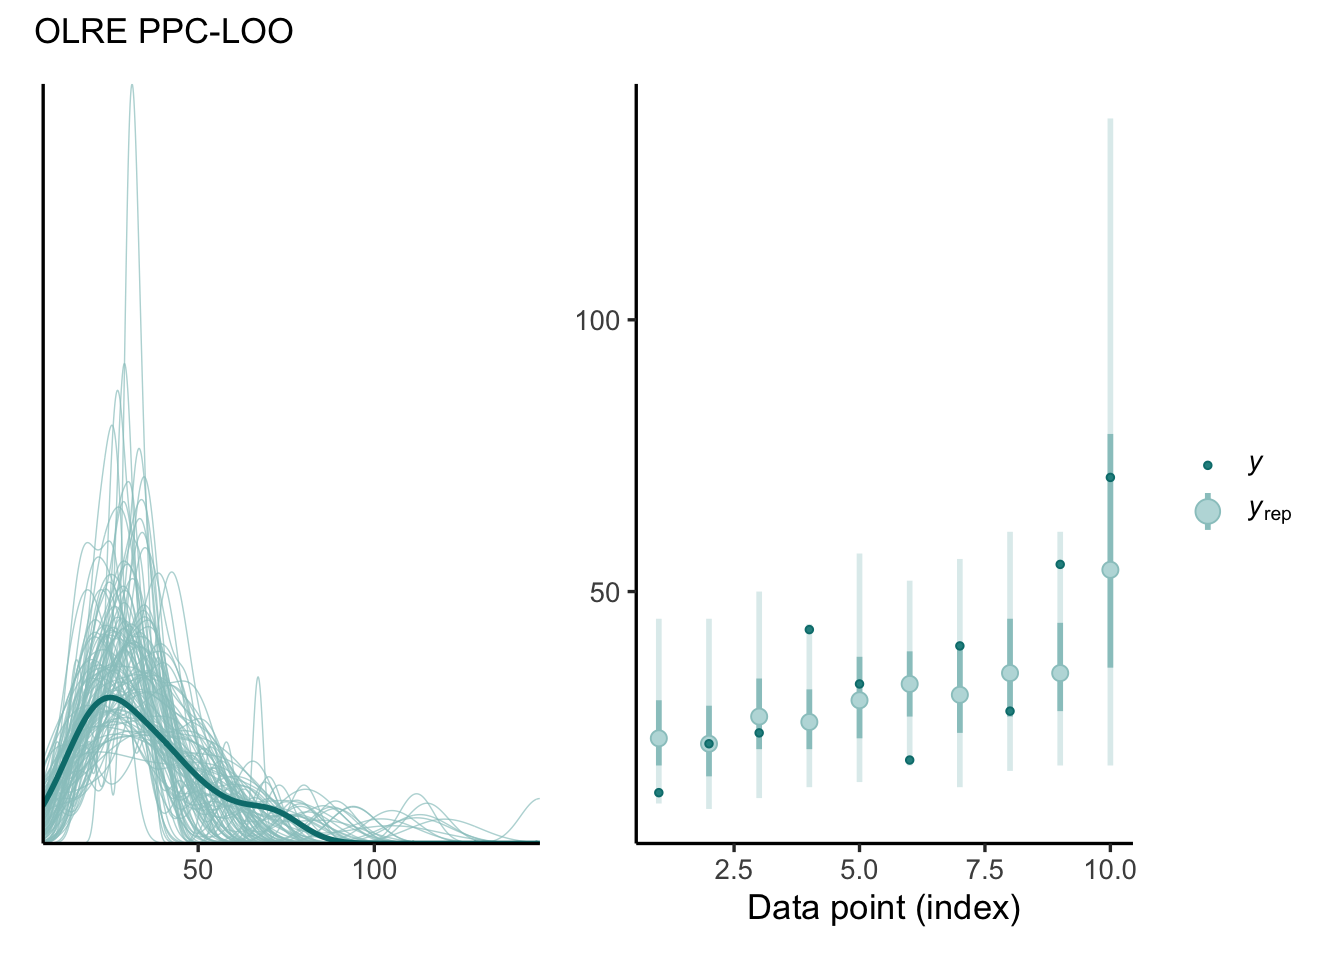
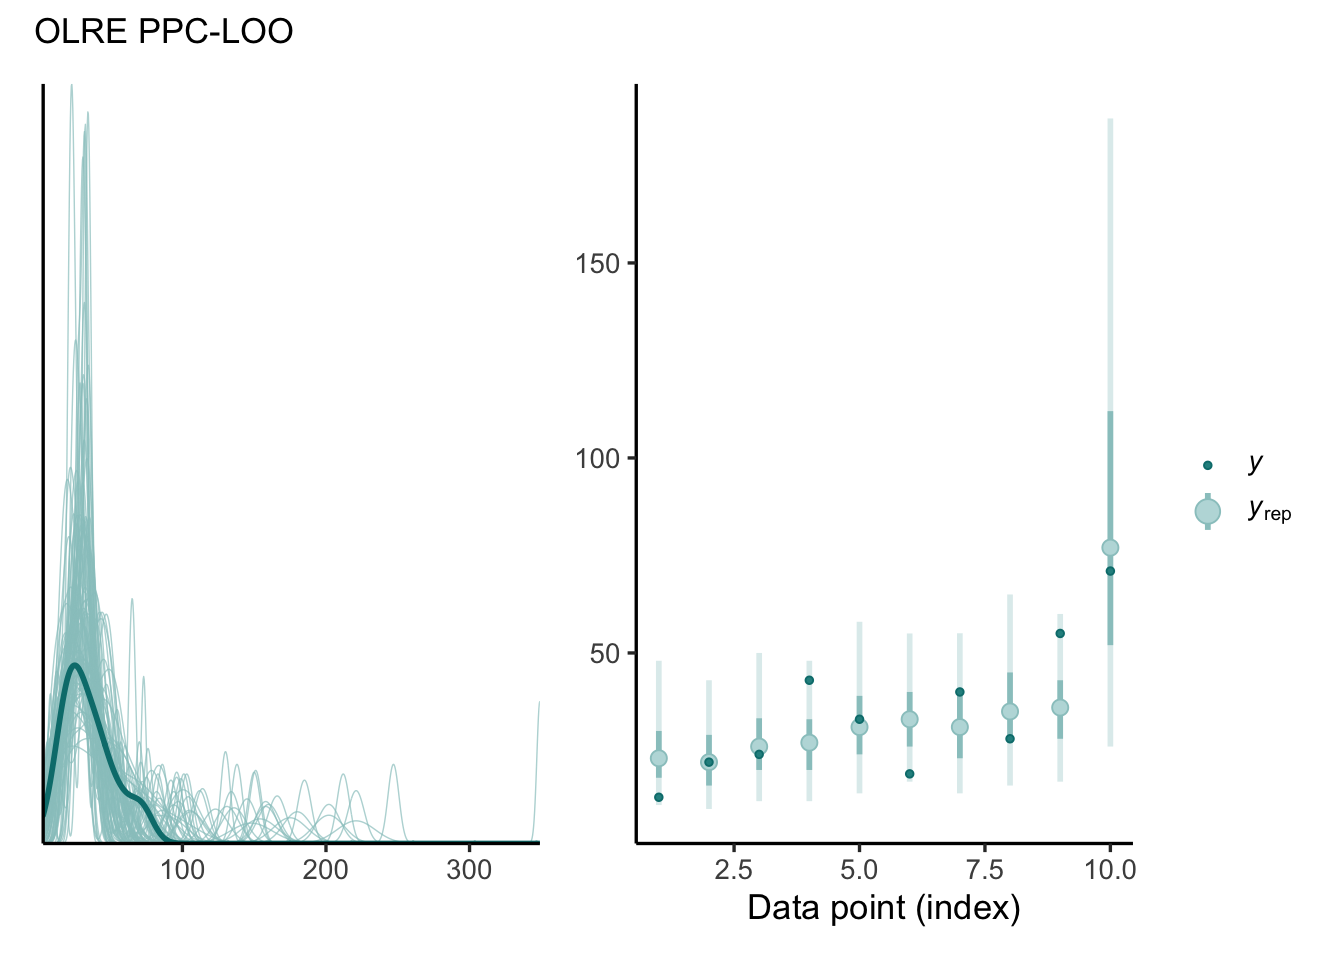
Built site for gh-pages

diff --git a/posts/OLRE/index.html b/posts/OLRE/index.html
@@ -7,7 +7,7 @@
 <meta name="viewport" content="width=device-width, initial-scale=1.0, user-scalable=yes">
 
 <meta name="author" content="Erik J. Ringen">
-<meta name="dcterms.date" content="2024-11-10">
+<meta name="dcterms.date" content="2024-11-16">
 
 <title>The right way to do predictive checks with observation-level random effects – Erik J. Ringen, PhD</title>
 <style>
@@ -227,7 +227,7 @@ window.Quarto = {
       <div>
       <div class="quarto-title-meta-heading">Published</div>
       <div class="quarto-title-meta-contents">
-        <p class="date">November 10, 2024</p>
+        <p class="date">November 16, 2024</p>
       </div>
     </div>
     
@@ -266,8 +266,8 @@ window.Quarto = {
 <h1>The wrong way</h1>
 <p>In Bayesian workflow, we often perform <a href="https://mc-stan.org/docs/stan-users-guide/posterior-predictive-checks.html">posterior predictive checks</a>, where draws from the posterior distribution are used to generate many synthetic replications of our dataset, denoted <span class="math inline">\(y_{\text{rep}}\)</span>, which are then compared to the observed values. Systematic discrepancies between the distribution of <span class="math inline">\(y_\text{rep}\)</span> and the actual data indicate misspecification, and can suggest ways to improve our models.</p>
 <p>To illustrate this idea, we’ll use the Oceanic toolkit complexity dataset from Michelle Kline and Robert Boyd <span class="citation" data-cites="kline2010population">(<a href="#ref-kline2010population" role="doc-biblioref">Kline and Boyd 2010</a>)</span>. The response variable is the count of unique tools in a given Oceanic society (<code>total_tools</code>), which is predicted by the natural logarithm of population size (<code>population</code>). First we will fit this basic model, using priors from <span class="citation" data-cites="mcelreath2020god">(<a href="#ref-mcelreath2020god" role="doc-biblioref">McElreath 2020</a>)</span>. For each society <span class="math inline">\(i\)</span>:</p>
-<p><span class="math display">\[ \text{total\_tools}_i \sim \text{Poisson}(\lambda_i)\]</span> <span class="math display">\[ \text{log}(\lambda_i) = b_0 + b_{\text{pop}}\text{log}(\text{population}_{z_i})\]</span> <span class="math display">\[ b_0 \sim \mathcal{N}(3, 0.5)\]</span> <span class="math display">\[ b_{\text{pop}} \sim \mathcal{N}(0, 0.2)\]</span></p>
-<p>Then, we will perform posterior predictive checks using some off-the-shelf convenience functions.</p>
+<p><span class="math display">\[ \text{total\_tools}_i \sim \text{Poisson}(\lambda_i)\]</span> <span class="math display">\[ \text{log}(\lambda_i) = b_0 + b_{\text{pop}}\text{log}(\text{population}_{i})_z\]</span> <span class="math display">\[ b_0 \sim \mathcal{N}(3, 0.5)\]</span> <span class="math display">\[ b_{\text{pop}} \sim \mathcal{N}(0, 0.2)\]</span></p>
+<p>Where log(population) has been standardized to have zero mean and unit variance. Then, we will perform posterior predictive checks using some off-the-shelf convenience functions.</p>
 <div class="tabset-margin-container"></div><div class="panel-tabset">
 <ul class="nav nav-tabs" role="tablist"><li class="nav-item" role="presentation"><a class="nav-link active" id="tabset-1-1-tab" data-bs-toggle="tab" data-bs-target="#tabset-1-1" role="tab" aria-controls="tabset-1-1" aria-selected="true">brms</a></li><li class="nav-item" role="presentation"><a class="nav-link" id="tabset-1-2-tab" data-bs-toggle="tab" data-bs-target="#tabset-1-2" role="tab" aria-controls="tabset-1-2" aria-selected="false">PyMC</a></li></ul>
 <div class="tab-content">
@@ -535,7 +535,7 @@ window.Quarto = {
 </div>
 </div>
 </div>
-<p>Looks good, right? Sadly, this is a little too good to be true. We have misled ourselves. To see why, let’s examine the <span class="math inline">\(\nu_{\text{obs}}\)</span> parameters in relation to the observed data:</p>
+<p>Looks good, right? Sadly, this is a little too good to be true. We have misled ourselves. To see why, let’s examine the posterior distribution of the OLREs in relation to the observed data:</p>
 <div class="tabset-margin-container"></div><div class="panel-tabset">
 <ul class="nav nav-tabs" role="tablist"><li class="nav-item" role="presentation"><a class="nav-link active" id="tabset-3-1-tab" data-bs-toggle="tab" data-bs-target="#tabset-3-1" role="tab" aria-controls="tabset-3-1" aria-selected="true">brms</a></li><li class="nav-item" role="presentation"><a class="nav-link" id="tabset-3-2-tab" data-bs-toggle="tab" data-bs-target="#tabset-3-2" role="tab" aria-controls="tabset-3-2" aria-selected="false">PyMC</a></li></ul>
 <div class="tab-content">
@@ -669,12 +669,18 @@ window.Quarto = {
 <div class="sourceCode cell-code" id="cb12"><pre class="sourceCode r code-with-copy"><code class="sourceCode r"><span id="cb12-1"><a href="#cb12-1" aria-hidden="true" tabindex="-1"></a>yrep_loo <span class="ot">&lt;-</span> <span class="fu">matrix</span>(<span class="cn">NA</span>, <span class="at">nrow =</span> <span class="fu">ndraws</span>(m_poisson_OLRE), <span class="at">ncol =</span> <span class="fu">nrow</span>(Kline))</span>
 <span id="cb12-2"><a href="#cb12-2" aria-hidden="true" tabindex="-1"></a></span>
 <span id="cb12-3"><a href="#cb12-3" aria-hidden="true" tabindex="-1"></a><span class="cf">for</span> (i <span class="cf">in</span> <span class="dv">1</span><span class="sc">:</span><span class="fu">nrow</span>(Kline)) {</span>
-<span id="cb12-4"><a href="#cb12-4" aria-hidden="true" tabindex="-1"></a>    model_loo <span class="ot">&lt;-</span> <span class="fu">update</span>(m_poisson_OLRE, <span class="at">newdata =</span> Kline[<span class="sc">-</span>i,], <span class="at">seed =</span> <span class="dv">123</span>)</span>
-<span id="cb12-5"><a href="#cb12-5" aria-hidden="true" tabindex="-1"></a>    yrep_loo[,i] <span class="ot">&lt;-</span> <span class="fu">posterior_predict</span>(model_loo, <span class="at">newdata =</span> Kline[i,], <span class="at">allow_new_levels =</span> <span class="cn">TRUE</span>, <span class="at">sample_new_levels =</span> <span class="st">"gaussian"</span>)</span>
-<span id="cb12-6"><a href="#cb12-6" aria-hidden="true" tabindex="-1"></a>}</span>
-<span id="cb12-7"><a href="#cb12-7" aria-hidden="true" tabindex="-1"></a></span>
-<span id="cb12-8"><a href="#cb12-8" aria-hidden="true" tabindex="-1"></a>bayesplot<span class="sc">::</span><span class="fu">ppc_dens_overlay</span>(Kline<span class="sc">$</span>total_tools, yrep_loo[<span class="dv">1</span><span class="sc">:</span><span class="dv">100</span>,]) <span class="sc">+</span> <span class="fu">theme</span>(<span class="at">legend.position =</span> <span class="st">"none"</span>) <span class="sc">+</span> bayesplot<span class="sc">::</span><span class="fu">ppc_intervals</span>(Kline<span class="sc">$</span>total_tools, yrep_loo) <span class="sc">+</span></span>
-<span id="cb12-9"><a href="#cb12-9" aria-hidden="true" tabindex="-1"></a>    <span class="fu">plot_annotation</span>(<span class="at">subtitle =</span> <span class="st">"OLRE PPC-LOO"</span>) </span></code><button title="Copy to Clipboard" class="code-copy-button"><i class="bi"></i></button></pre></div>
+<span id="cb12-4"><a href="#cb12-4" aria-hidden="true" tabindex="-1"></a>    Kline_train <span class="ot">&lt;-</span> Kline[<span class="sc">-</span>i,]</span>
+<span id="cb12-5"><a href="#cb12-5" aria-hidden="true" tabindex="-1"></a>    Kline_test <span class="ot">&lt;-</span> Kline[i,]</span>
+<span id="cb12-6"><a href="#cb12-6" aria-hidden="true" tabindex="-1"></a>    <span class="co"># recompute z-scores to avoid leakage</span></span>
+<span id="cb12-7"><a href="#cb12-7" aria-hidden="true" tabindex="-1"></a>    mean_log_pop <span class="ot">&lt;-</span> <span class="fu">mean</span>(<span class="fu">log</span>(Kline_train<span class="sc">$</span>population))</span>
+<span id="cb12-8"><a href="#cb12-8" aria-hidden="true" tabindex="-1"></a>    sd_log_pop <span class="ot">&lt;-</span> <span class="fu">sd</span>(<span class="fu">log</span>(Kline_train<span class="sc">$</span>population))</span>
+<span id="cb12-9"><a href="#cb12-9" aria-hidden="true" tabindex="-1"></a></span>
+<span id="cb12-10"><a href="#cb12-10" aria-hidden="true" tabindex="-1"></a>    model_loo <span class="ot">&lt;-</span> <span class="fu">update</span>(m_poisson_OLRE, <span class="at">newdata =</span> Kline_train <span class="sc">|&gt;</span> <span class="fu">mutate</span>(<span class="at">log_pop_z =</span> (<span class="fu">log</span>(population) <span class="sc">-</span> mean_log_pop) <span class="sc">/</span> sd_log_pop), <span class="at">seed =</span> <span class="dv">123</span>)</span>
+<span id="cb12-11"><a href="#cb12-11" aria-hidden="true" tabindex="-1"></a>    yrep_loo[,i] <span class="ot">&lt;-</span> <span class="fu">posterior_predict</span>(model_loo, <span class="at">newdata =</span> Kline_test <span class="sc">|&gt;</span> <span class="fu">mutate</span>(<span class="at">log_pop_z =</span> (<span class="fu">log</span>(population) <span class="sc">-</span> mean_log_pop) <span class="sc">/</span> sd_log_pop), <span class="at">allow_new_levels =</span> <span class="cn">TRUE</span>, <span class="at">sample_new_levels =</span> <span class="st">"gaussian"</span>)</span>
+<span id="cb12-12"><a href="#cb12-12" aria-hidden="true" tabindex="-1"></a>}</span>
+<span id="cb12-13"><a href="#cb12-13" aria-hidden="true" tabindex="-1"></a></span>
+<span id="cb12-14"><a href="#cb12-14" aria-hidden="true" tabindex="-1"></a>bayesplot<span class="sc">::</span><span class="fu">ppc_dens_overlay</span>(Kline<span class="sc">$</span>total_tools, yrep_loo[<span class="dv">1</span><span class="sc">:</span><span class="dv">100</span>,]) <span class="sc">+</span> <span class="fu">theme</span>(<span class="at">legend.position =</span> <span class="st">"none"</span>) <span class="sc">+</span> bayesplot<span class="sc">::</span><span class="fu">ppc_intervals</span>(Kline<span class="sc">$</span>total_tools, yrep_loo) <span class="sc">+</span></span>
+<span id="cb12-15"><a href="#cb12-15" aria-hidden="true" tabindex="-1"></a>    <span class="fu">plot_annotation</span>(<span class="at">subtitle =</span> <span class="st">"OLRE PPC-LOO"</span>) </span></code><button title="Copy to Clipboard" class="code-copy-button"><i class="bi"></i></button></pre></div>
 </details>
 <div class="cell-output-display">
 <div class="quarto-figure quarto-figure-center">
@@ -694,32 +700,36 @@ window.Quarto = {
 <span id="cb13-2"><a href="#cb13-2" aria-hidden="true" tabindex="-1"></a>    obs_idx <span class="op">=</span> np.arange(<span class="bu">len</span>(train))</span>
 <span id="cb13-3"><a href="#cb13-3" aria-hidden="true" tabindex="-1"></a>    coords <span class="op">=</span> {<span class="st">"obs"</span>: obs_idx}</span>
 <span id="cb13-4"><a href="#cb13-4" aria-hidden="true" tabindex="-1"></a></span>
-<span id="cb13-5"><a href="#cb13-5" aria-hidden="true" tabindex="-1"></a>    <span class="cf">with</span> pm.Model(coords <span class="op">=</span> coords) <span class="im">as</span> model:</span>
-<span id="cb13-6"><a href="#cb13-6" aria-hidden="true" tabindex="-1"></a>        b0 <span class="op">=</span> pm.Normal(<span class="st">"Intercept"</span>, mu<span class="op">=</span><span class="dv">3</span>, sigma<span class="op">=</span><span class="fl">0.5</span>)</span>
-<span id="cb13-7"><a href="#cb13-7" aria-hidden="true" tabindex="-1"></a>        b_pop <span class="op">=</span> pm.Normal(<span class="st">"slope"</span>, mu<span class="op">=</span><span class="dv">0</span>, sigma<span class="op">=</span><span class="fl">0.2</span>)</span>
-<span id="cb13-8"><a href="#cb13-8" aria-hidden="true" tabindex="-1"></a>        nu <span class="op">=</span> pm.Normal(<span class="st">"nu"</span>, mu <span class="op">=</span> <span class="dv">0</span>, sigma <span class="op">=</span> <span class="dv">1</span>, dims <span class="op">=</span> <span class="st">"obs"</span>)</span>
-<span id="cb13-9"><a href="#cb13-9" aria-hidden="true" tabindex="-1"></a>        sigma <span class="op">=</span> pm.Exponential(<span class="st">"sigma"</span>, lam <span class="op">=</span> <span class="dv">2</span>)</span>
-<span id="cb13-10"><a href="#cb13-10" aria-hidden="true" tabindex="-1"></a>        <span class="co"># linear model</span></span>
-<span id="cb13-11"><a href="#cb13-11" aria-hidden="true" tabindex="-1"></a>        log_lam <span class="op">=</span> b0 <span class="op">+</span> nu[obs_idx]<span class="op">*</span>sigma <span class="op">+</span> b_pop <span class="op">*</span> train[<span class="st">'log_pop_z'</span>] </span>
-<span id="cb13-12"><a href="#cb13-12" aria-hidden="true" tabindex="-1"></a>        <span class="co">## Poisson likelihood</span></span>
-<span id="cb13-13"><a href="#cb13-13" aria-hidden="true" tabindex="-1"></a>        y <span class="op">=</span> pm.Poisson(<span class="st">"y"</span>, mu<span class="op">=</span>pm.math.exp(log_lam), observed<span class="op">=</span>train[<span class="st">'total_tools'</span>])</span>
-<span id="cb13-14"><a href="#cb13-14" aria-hidden="true" tabindex="-1"></a></span>
-<span id="cb13-15"><a href="#cb13-15" aria-hidden="true" tabindex="-1"></a>        nu_rep <span class="op">=</span> pm.Normal(<span class="st">"nu_rep"</span>, mu <span class="op">=</span> <span class="dv">0</span>, sigma <span class="op">=</span> sigma)</span>
-<span id="cb13-16"><a href="#cb13-16" aria-hidden="true" tabindex="-1"></a>        yrep <span class="op">=</span> pm.Poisson(<span class="st">"yrep"</span>, pm.math.exp(b0 <span class="op">+</span> nu_rep <span class="op">+</span> b_pop <span class="op">*</span> test[<span class="st">'log_pop_z'</span>]))</span>
-<span id="cb13-17"><a href="#cb13-17" aria-hidden="true" tabindex="-1"></a>    </span>
-<span id="cb13-18"><a href="#cb13-18" aria-hidden="true" tabindex="-1"></a>        idata_loo <span class="op">=</span> pm.sample(<span class="dv">1000</span>, chains <span class="op">=</span> <span class="dv">1</span>, target_accept <span class="op">=</span> <span class="fl">0.99</span>, random_seed<span class="op">=</span><span class="dv">2</span>)</span>
-<span id="cb13-19"><a href="#cb13-19" aria-hidden="true" tabindex="-1"></a>    </span>
-<span id="cb13-20"><a href="#cb13-20" aria-hidden="true" tabindex="-1"></a>    pred <span class="op">=</span> pm.sample_posterior_predictive(idata_loo, model, predictions<span class="op">=</span><span class="va">True</span>, extend_inferencedata<span class="op">=</span><span class="va">False</span>, var_names <span class="op">=</span> [<span class="st">'yrep'</span>], random_seed<span class="op">=</span><span class="dv">2</span>)</span>
-<span id="cb13-21"><a href="#cb13-21" aria-hidden="true" tabindex="-1"></a></span>
-<span id="cb13-22"><a href="#cb13-22" aria-hidden="true" tabindex="-1"></a>    <span class="cf">return</span> pred.predictions[<span class="st">'yrep'</span>]</span>
-<span id="cb13-23"><a href="#cb13-23" aria-hidden="true" tabindex="-1"></a></span>
-<span id="cb13-24"><a href="#cb13-24" aria-hidden="true" tabindex="-1"></a>test_preds <span class="op">=</span> []</span>
+<span id="cb13-5"><a href="#cb13-5" aria-hidden="true" tabindex="-1"></a>    <span class="co"># recompute z-scores to avoid leakage</span></span>
+<span id="cb13-6"><a href="#cb13-6" aria-hidden="true" tabindex="-1"></a>    mean_log_pop <span class="op">=</span> np.mean(np.log(train[<span class="st">'population'</span>]))</span>
+<span id="cb13-7"><a href="#cb13-7" aria-hidden="true" tabindex="-1"></a>    sd_log_pop <span class="op">=</span> np.std(np.log(train[<span class="st">'population'</span>]))</span>
+<span id="cb13-8"><a href="#cb13-8" aria-hidden="true" tabindex="-1"></a></span>
+<span id="cb13-9"><a href="#cb13-9" aria-hidden="true" tabindex="-1"></a>    <span class="cf">with</span> pm.Model(coords <span class="op">=</span> coords) <span class="im">as</span> model:</span>
+<span id="cb13-10"><a href="#cb13-10" aria-hidden="true" tabindex="-1"></a>        b0 <span class="op">=</span> pm.Normal(<span class="st">"Intercept"</span>, mu<span class="op">=</span><span class="dv">3</span>, sigma<span class="op">=</span><span class="fl">0.5</span>)</span>
+<span id="cb13-11"><a href="#cb13-11" aria-hidden="true" tabindex="-1"></a>        b_pop <span class="op">=</span> pm.Normal(<span class="st">"slope"</span>, mu<span class="op">=</span><span class="dv">0</span>, sigma<span class="op">=</span><span class="fl">0.2</span>)</span>
+<span id="cb13-12"><a href="#cb13-12" aria-hidden="true" tabindex="-1"></a>        nu <span class="op">=</span> pm.Normal(<span class="st">"nu"</span>, mu <span class="op">=</span> <span class="dv">0</span>, sigma <span class="op">=</span> <span class="dv">1</span>, dims <span class="op">=</span> <span class="st">"obs"</span>)</span>
+<span id="cb13-13"><a href="#cb13-13" aria-hidden="true" tabindex="-1"></a>        sigma <span class="op">=</span> pm.Exponential(<span class="st">"sigma"</span>, lam <span class="op">=</span> <span class="dv">2</span>)</span>
+<span id="cb13-14"><a href="#cb13-14" aria-hidden="true" tabindex="-1"></a>        <span class="co"># linear model</span></span>
+<span id="cb13-15"><a href="#cb13-15" aria-hidden="true" tabindex="-1"></a>        log_lam <span class="op">=</span> b0 <span class="op">+</span> nu[obs_idx]<span class="op">*</span>sigma <span class="op">+</span> b_pop <span class="op">*</span> train[<span class="st">'log_pop_z'</span>] </span>
+<span id="cb13-16"><a href="#cb13-16" aria-hidden="true" tabindex="-1"></a>        <span class="co">## Poisson likelihood</span></span>
+<span id="cb13-17"><a href="#cb13-17" aria-hidden="true" tabindex="-1"></a>        y <span class="op">=</span> pm.Poisson(<span class="st">"y"</span>, mu<span class="op">=</span>pm.math.exp(log_lam), observed<span class="op">=</span>train[<span class="st">'total_tools'</span>])</span>
+<span id="cb13-18"><a href="#cb13-18" aria-hidden="true" tabindex="-1"></a></span>
+<span id="cb13-19"><a href="#cb13-19" aria-hidden="true" tabindex="-1"></a>        nu_rep <span class="op">=</span> pm.Normal(<span class="st">"nu_rep"</span>, mu <span class="op">=</span> <span class="dv">0</span>, sigma <span class="op">=</span> sigma)</span>
+<span id="cb13-20"><a href="#cb13-20" aria-hidden="true" tabindex="-1"></a>        yrep <span class="op">=</span> pm.Poisson(<span class="st">"yrep"</span>, pm.math.exp(b0 <span class="op">+</span> nu_rep <span class="op">+</span> b_pop <span class="op">*</span> (np.log(test[<span class="st">'population'</span>]) <span class="op">-</span> mean_log_pop)<span class="op">/</span>sd_log_pop))</span>
+<span id="cb13-21"><a href="#cb13-21" aria-hidden="true" tabindex="-1"></a>    </span>
+<span id="cb13-22"><a href="#cb13-22" aria-hidden="true" tabindex="-1"></a>        idata_loo <span class="op">=</span> pm.sample(<span class="dv">1000</span>, chains <span class="op">=</span> <span class="dv">1</span>, target_accept <span class="op">=</span> <span class="fl">0.99</span>, random_seed<span class="op">=</span><span class="dv">99</span>)</span>
+<span id="cb13-23"><a href="#cb13-23" aria-hidden="true" tabindex="-1"></a>    </span>
+<span id="cb13-24"><a href="#cb13-24" aria-hidden="true" tabindex="-1"></a>    pred <span class="op">=</span> pm.sample_posterior_predictive(idata_loo, model, predictions<span class="op">=</span><span class="va">True</span>, extend_inferencedata<span class="op">=</span><span class="va">False</span>, var_names <span class="op">=</span> [<span class="st">'yrep'</span>], random_seed<span class="op">=</span><span class="dv">2</span>)</span>
 <span id="cb13-25"><a href="#cb13-25" aria-hidden="true" tabindex="-1"></a></span>
-<span id="cb13-26"><a href="#cb13-26" aria-hidden="true" tabindex="-1"></a><span class="cf">for</span> i <span class="kw">in</span> <span class="bu">range</span>(<span class="bu">len</span>(Kline)):</span>
-<span id="cb13-27"><a href="#cb13-27" aria-hidden="true" tabindex="-1"></a>    train <span class="op">=</span> Kline.drop(index <span class="op">=</span> Kline.index[i])</span>
-<span id="cb13-28"><a href="#cb13-28" aria-hidden="true" tabindex="-1"></a>    test <span class="op">=</span> Kline.iloc[[i]]</span>
-<span id="cb13-29"><a href="#cb13-29" aria-hidden="true" tabindex="-1"></a>    yrep_loo <span class="op">=</span> model_factory(train, test)</span>
-<span id="cb13-30"><a href="#cb13-30" aria-hidden="true" tabindex="-1"></a>    test_preds.append(yrep_loo)</span></code><button title="Copy to Clipboard" class="code-copy-button"><i class="bi"></i></button></pre></div>
+<span id="cb13-26"><a href="#cb13-26" aria-hidden="true" tabindex="-1"></a>    <span class="cf">return</span> pred.predictions[<span class="st">'yrep'</span>]</span>
+<span id="cb13-27"><a href="#cb13-27" aria-hidden="true" tabindex="-1"></a></span>
+<span id="cb13-28"><a href="#cb13-28" aria-hidden="true" tabindex="-1"></a>test_preds <span class="op">=</span> []</span>
+<span id="cb13-29"><a href="#cb13-29" aria-hidden="true" tabindex="-1"></a></span>
+<span id="cb13-30"><a href="#cb13-30" aria-hidden="true" tabindex="-1"></a><span class="cf">for</span> i <span class="kw">in</span> <span class="bu">range</span>(<span class="bu">len</span>(Kline)):</span>
+<span id="cb13-31"><a href="#cb13-31" aria-hidden="true" tabindex="-1"></a>    train <span class="op">=</span> Kline.drop(index <span class="op">=</span> Kline.index[i])</span>
+<span id="cb13-32"><a href="#cb13-32" aria-hidden="true" tabindex="-1"></a>    test <span class="op">=</span> Kline.iloc[[i]]</span>
+<span id="cb13-33"><a href="#cb13-33" aria-hidden="true" tabindex="-1"></a>    yrep_loo <span class="op">=</span> model_factory(train, test)</span>
+<span id="cb13-34"><a href="#cb13-34" aria-hidden="true" tabindex="-1"></a>    test_preds.append(yrep_loo)</span></code><button title="Copy to Clipboard" class="code-copy-button"><i class="bi"></i></button></pre></div>
 </details>
 <details class="code-fold">
 <summary>Code</summary>
@@ -743,7 +753,7 @@ window.Quarto = {
 </div>
 </div>
 </div>
-<p>This predictive check is even less optimistic, but it still looks better than the first Poisson model we fit, suggesting that the OLRE is helpful. For large datasets, it becomes infeasible to refit the model for each observation, so one might turn to <a href="https://rdrr.io/cran/brms/man/kfold.brmsfit.html">k-fold cross validation</a> or Pareo-smoothed importance sampling as an approximation (<a href="https://rdrr.io/cran/brms/man/loo.brmsfit.html">PSIS-LOO</a>) <span class="citation" data-cites="vehtari2017practical">(<a href="#ref-vehtari2017practical" role="doc-biblioref">Vehtari, Gelman, and Gabry 2017</a>)</span>. Note that PSIS may not reliable for these types of models, and one should instead <a href="https://users.aalto.fi/~ave/modelselection/roaches.html#5_Poisson_model_with_varying_intercept_and_integrated_LOO">integrate out the OLREs using adaptive quadrature</a>.</p>
+<p>This predictive check is a bit less optimistic, but it still looks better than the first Poisson model we fit. This suggests that the OLRE is helpful and we have not overfit too badly. For large datasets, it becomes infeasible to refit the model for each observation, so one might turn to <a href="https://rdrr.io/cran/brms/man/kfold.brmsfit.html">k-fold cross validation</a> or Pareo-smoothed importance sampling as an approximation (<a href="https://rdrr.io/cran/brms/man/loo.brmsfit.html">PSIS-LOO</a>) <span class="citation" data-cites="vehtari2017practical">(<a href="#ref-vehtari2017practical" role="doc-biblioref">Vehtari, Gelman, and Gabry 2017</a>)</span>. Note that PSIS may not reliable for these types of models, and one should instead <a href="https://users.aalto.fi/~ave/modelselection/roaches.html#5_Poisson_model_with_varying_intercept_and_integrated_LOO">integrate out the OLREs using adaptive quadrature</a>.</p>
 </section>
 <section id="reproducible-environment" class="level1">
 <h1>Reproducible environment</h1>

diff --git a/index.html b/index.html
@@ -207,7 +207,7 @@ window.Quarto = {
 
 <div class="quarto-listing quarto-listing-container-default" id="listing-listing">
 <div class="list quarto-listing-default">
-<div class="quarto-post image-right" data-index="0" data-categories="Prediction,Statistics,brms,PyMC" data-listing-date-sort="1731196800000" data-listing-file-modified-sort="1731790056375" data-listing-date-modified-sort="NaN" data-listing-reading-time-sort="15" data-listing-word-count-sort="2865">
+<div class="quarto-post image-right" data-index="0" data-categories="Prediction,Statistics,brms,PyMC" data-listing-date-sort="1731715200000" data-listing-file-modified-sort="1731840775494" data-listing-date-modified-sort="NaN" data-listing-reading-time-sort="15" data-listing-word-count-sort="2961">
 <div class="thumbnail">
 <p><a href="./posts/OLRE/index.html" class="no-external"></a></p><a href="./posts/OLRE/index.html" class="no-external">
 <p><img loading="lazy" src="./posts/OLRE/image.png" class="thumbnail-image"></p>
@@ -241,7 +241,7 @@ PyMC
 <div class="metadata">
 <a href="./posts/OLRE/index.html" class="no-external">
 <div class="listing-date">
-Nov 10, 2024
+Nov 16, 2024
 </div>
 <div class="listing-author">
 Erik J. Ringen
